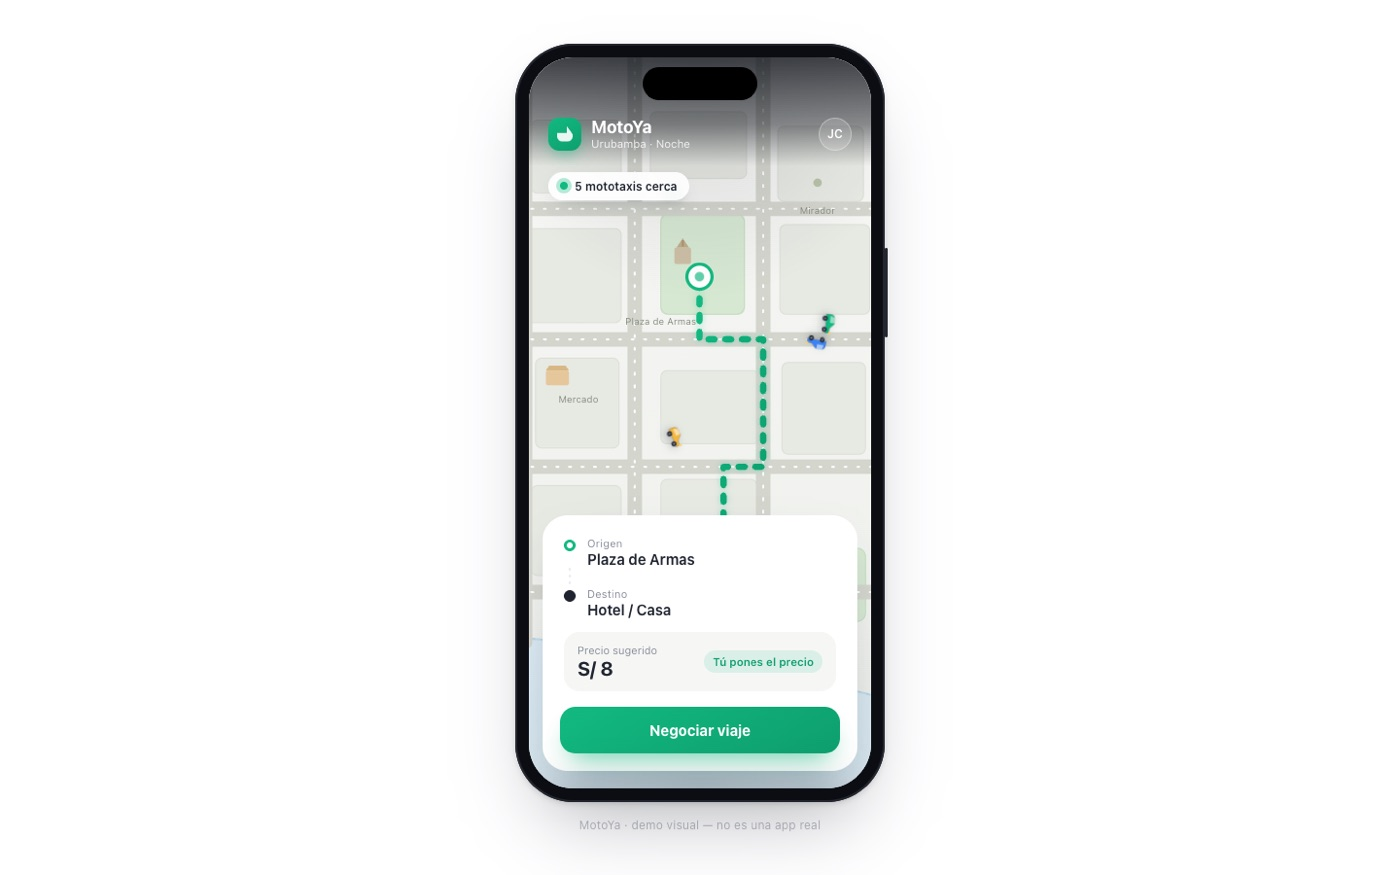
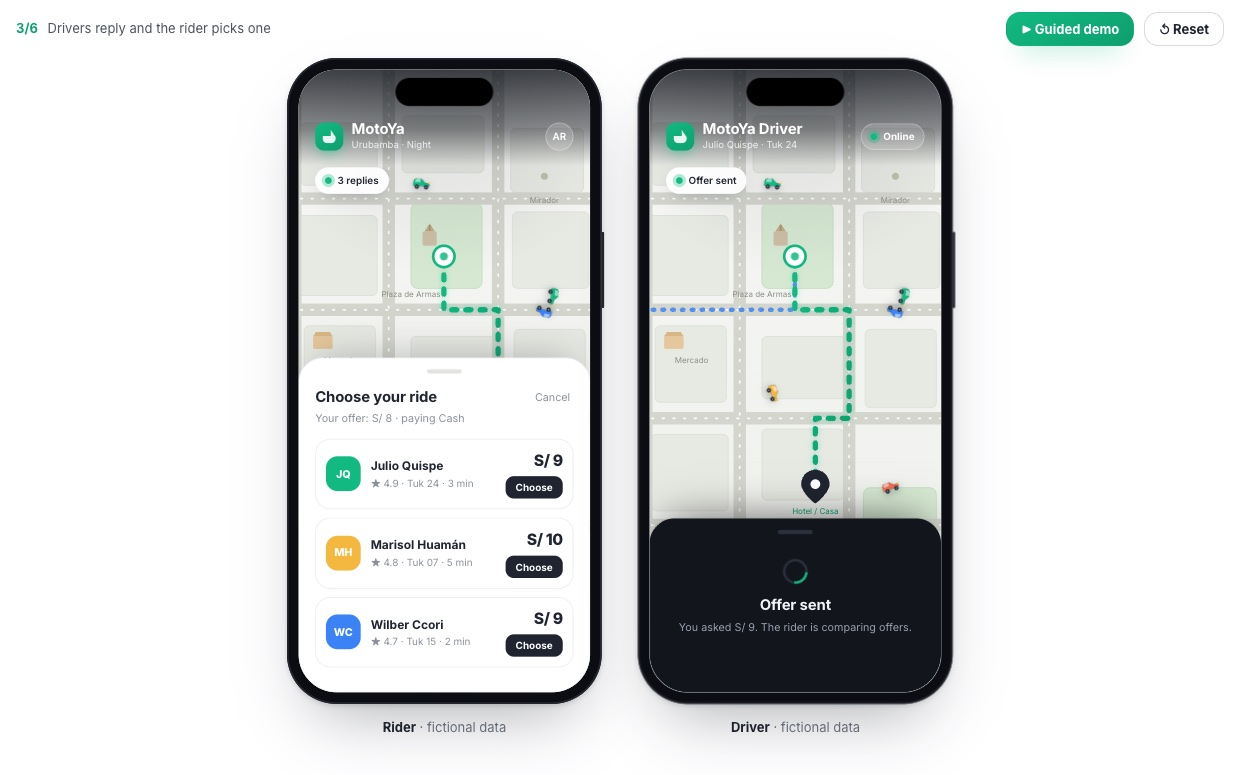
Portfolio: MotoYa v2 (two-sided demo, embedded phones)

diff --git a/index.html b/index.html
@@ -164,31 +164,35 @@
     <!-- MotoYa -->
     <article class="proj rv">
       <div class="info">
-        <p class="pill"><i></i><span data-en>Live demo · front end only</span><span data-es>Demo en vivo · solo front end</span></p>
+        <p class="pill"><i></i><span data-en>Live demo · two-sided prototype</span><span data-es>Demo en vivo · prototipo de dos lados</span></p>
         <h3>MotoYa</h3>
-        <p data-en>A visual product demo for a mototaxi ride-hailing concept, built for an investor pitch: map, route, and a rider-sets-the-price booking flow. Front end only, and labelled as a demo on screen.</p>
-        <p data-es>Demo visual de un concepto de mototaxi por app, hecho para un pitch a inversionistas: mapa, ruta y reserva donde el pasajero propone el precio. Solo front end, y rotulado como demo en pantalla.</p>
-        <ul class="tags"><li>React</li><li>Vite</li><li>CSS animation</li></ul>
+        <p data-en>A prototype of a mototaxi ride-hailing marketplace for small Andean towns: the rider proposes the price and nearby drivers accept or counter. Rider and driver phones stay in sync through a whole trip, from offer to payment and rating.</p>
+        <p data-es>Prototipo de un marketplace de mototaxis para pueblos andinos: el pasajero propone el precio y los conductores cercanos aceptan o contraofertan. Los teléfonos de pasajero y conductor se mantienen sincronizados durante todo el viaje, de la oferta al pago y la calificación.</p>
+        <ul class="tags"><li>React</li><li>Vite</li><li>State machine</li><li>SVG maps</li></ul>
         <details class="why">
           <summary><span data-en>Decisions &amp; lessons</span><span data-es>Decisiones y aprendizajes</span></summary>
           <ul data-en>
-            <li><b>A pitch artifact, not a product.</b> No backend on purpose: the goal was for an investor to feel one flow in ten seconds.</li>
-            <li><b>Honest by default:</b> the screen itself says it is a visual demo, not a real app.</li>
+            <li><b>One state machine, two phones.</b> A single reducer drives both apps, so what the driver taps is what the rider sees. No backend needed to feel like a marketplace.</li>
+            <li><b>Guided tour.</b> A script that "taps" both phones on its own, made for pitches; any real tap on the screen takes over.</li>
+            <li><b>Real geometry.</b> The tuk-tuk follows the actual SVG route, so pickup, trip progress and ETA are computed from the path, not faked with a timer.</li>
+            <li><b>Honest scope.</b> The page states what is real (the full flow) and what is missing to be a product: real map, matching backend, driver verification, payments.</li>
+            <li><b>Started as a single-screen mockup</b> and I rebuilt it as a product page once it felt "beta": the rider-only flow hid half the marketplace.</li>
           </ul>
           <ul data-es>
-            <li><b>Un artefacto de pitch, no un producto.</b> Sin backend a propósito: la meta era que un inversionista sintiera un flujo en diez segundos.</li>
-            <li><b>Honesto por defecto:</b> la propia pantalla dice que es un demo visual, no una app real.</li>
+            <li><b>Una máquina de estados, dos teléfonos.</b> Un solo reducer maneja ambas apps: lo que toca el conductor es lo que ve el pasajero. Sin backend, pero se siente como un marketplace.</li>
+            <li><b>Recorrido guiado.</b> Un guion que "toca" ambos teléfonos solo, pensado para pitches; cualquier toque real toma el control.</li>
+            <li><b>Geometría real.</b> El mototaxi sigue la ruta SVG real: recogida, progreso y ETA salen del trazado, no de un temporizador falso.</li>
+            <li><b>Alcance honesto.</b> La página dice qué es real (el flujo completo) y qué falta para ser producto: mapa real, backend de emparejamiento, verificación de conductores, pagos.</li>
+            <li><b>Empezó como una maqueta de una pantalla</b> y la reconstruí como página de producto cuando se sintió "beta": el flujo solo del pasajero escondía la mitad del marketplace.</li>
           </ul>
         </details>
-        <div class="btn-row">
-          <a class="btn solid" href="https://motoya-five.vercel.app" target="_blank" rel="noopener">Live demo ↗</a>
-          <span class="btn off"><span data-en>Private repo · walkthrough on request</span><span data-es>Repo privado · recorrido a pedido</span></span>
-        </div>
+        <div class="btn-row"><a class="btn solid" href="https://motoya-five.vercel.app" target="_blank" rel="noopener">Live demo ↗</a>
+          <span class="btn off"><span data-en>Private repo · walkthrough on request</span><span data-es>Repo privado · recorrido a pedido</span></span></div>
       </div>
       <div class="frame">
         <div class="chrome"><i></i><i></i><i></i><span class="url">motoya-five.vercel.app</span></div>
-        <div class="viewport contain" data-live="https://motoya-five.vercel.app" data-w="1000" data-h="625" data-title="MotoYa live demo">
-          <img src="./img/motoya.jpg" alt="MotoYa mobile booking screen with map and route" width="1400" height="875" loading="lazy" />
+        <div class="viewport" data-live="https://motoya-five.vercel.app/?embed=1" data-w="1240" data-h="775" data-title="MotoYa live demo: rider and driver phones">
+          <img src="./img/motoya.jpg" alt="MotoYa: rider phone choosing between three driver offers, driver phone showing offer sent" width="1240" height="775" loading="lazy" />
           <button class="try" type="button"><span data-en>▶ Try it live</span><span data-es>▶ Probar en vivo</span></button>
         </div>
       </div>
